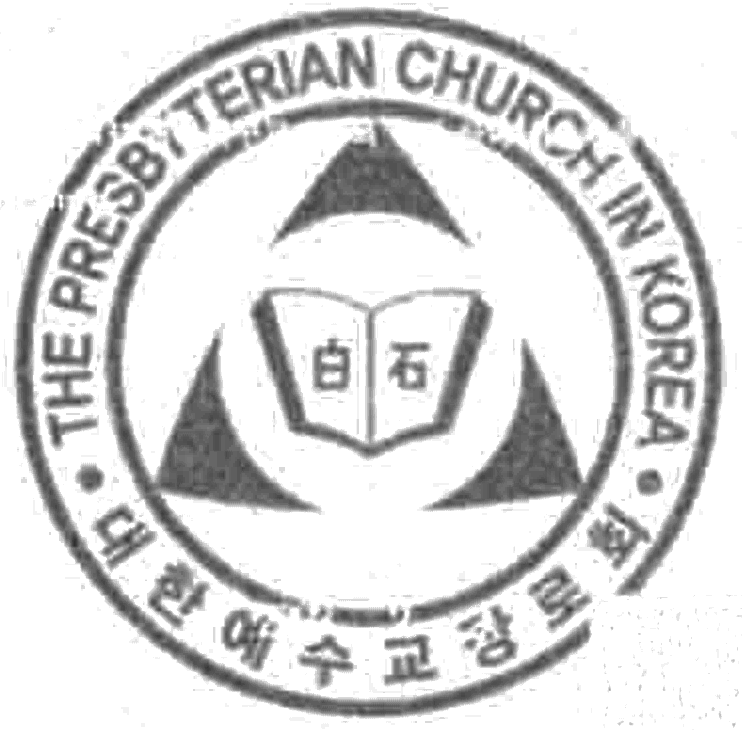
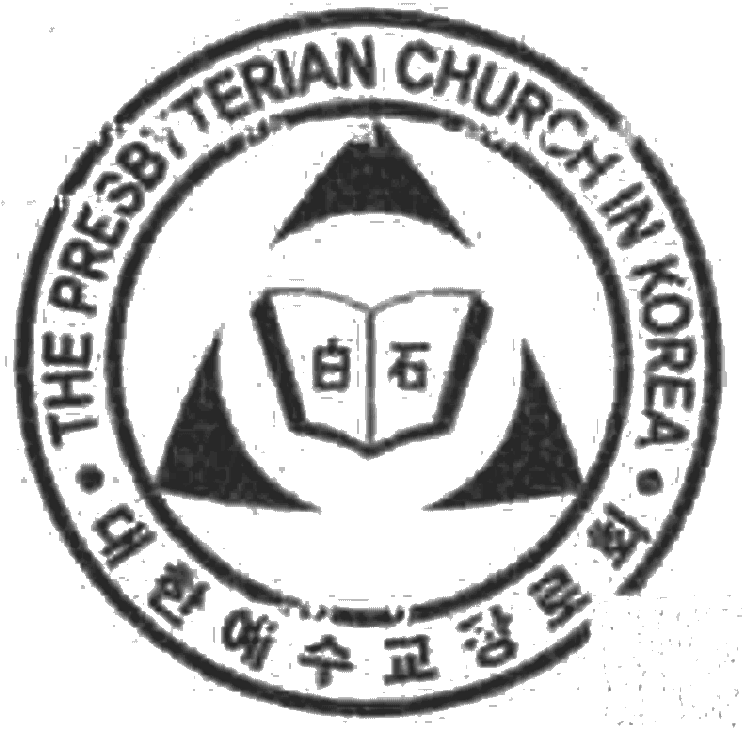
certificate: 워터마크 획을 더 또렷하게(알파 강조), 시안 3종 새로, 캐시 v12

diff --git a/certificate/sw.js b/certificate/sw.js
@@ -2,7 +2,7 @@
    이 폴더(certificate/) 범위만 담당한다. 같은 저장소의 다른 페이지는 건드리지 않는다.
    네트워크가 있으면 새 파일을 먼저 받아 두고, 없으면 받아 둔 사본으로 연다. */
 
-const CACHE = 'certificate-app-v11';
+const CACHE = 'certificate-app-v12';
 const SHELL = [
   './',
   './index.html',
